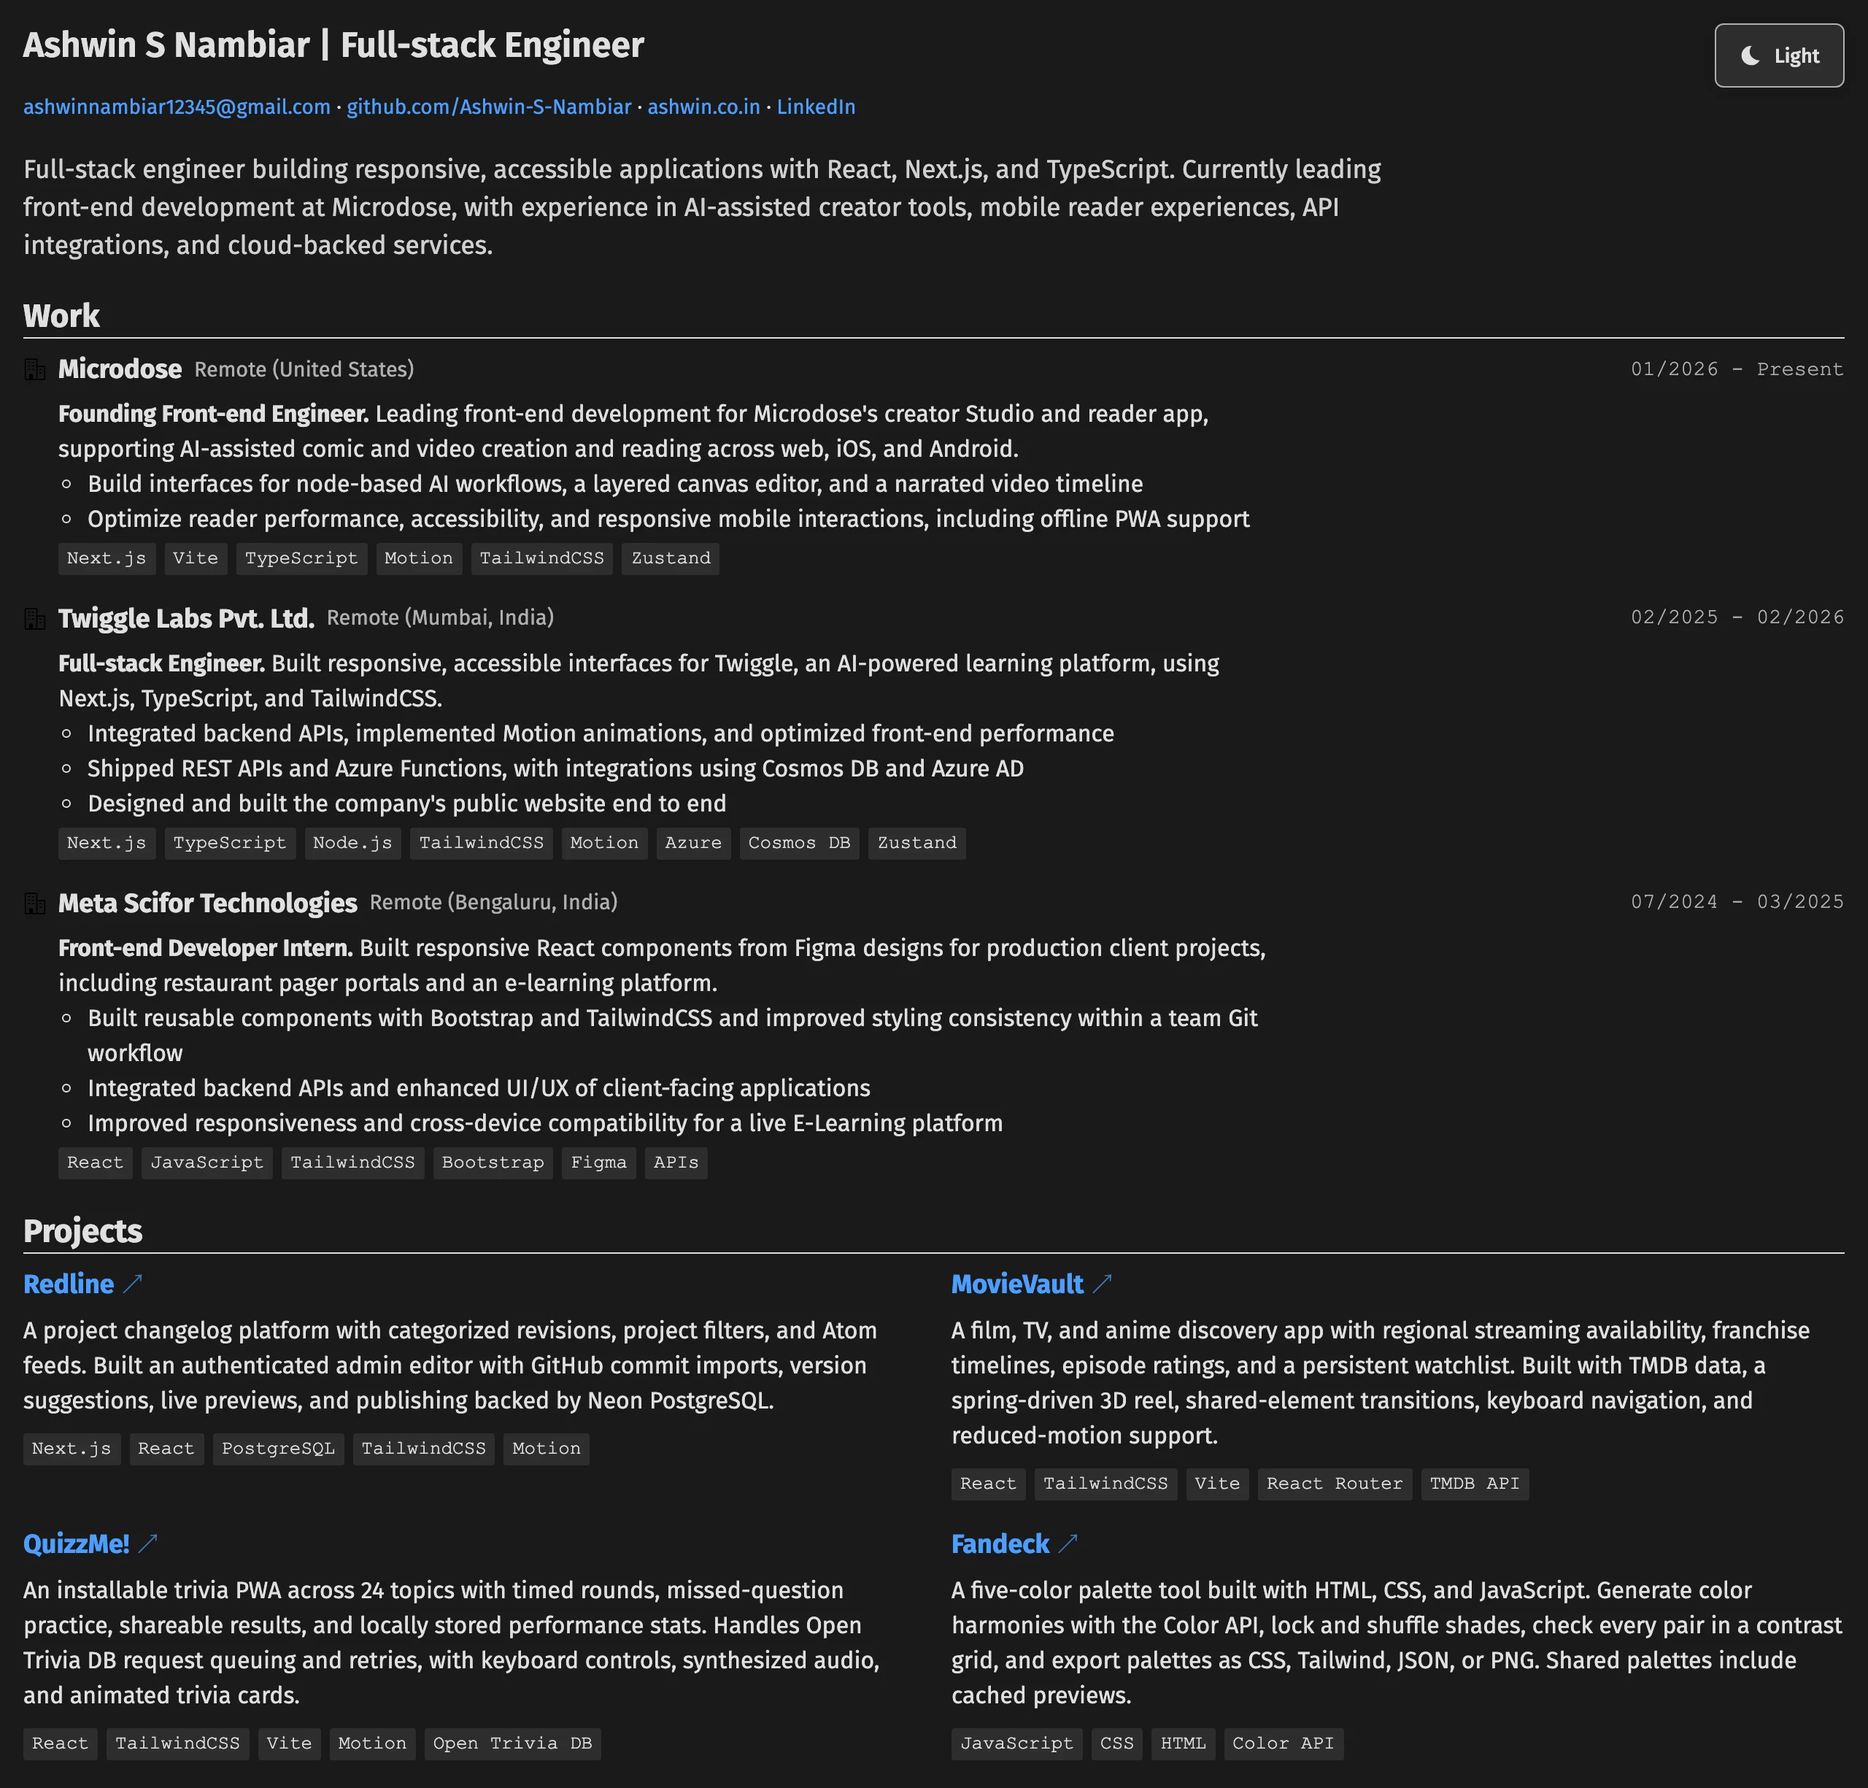
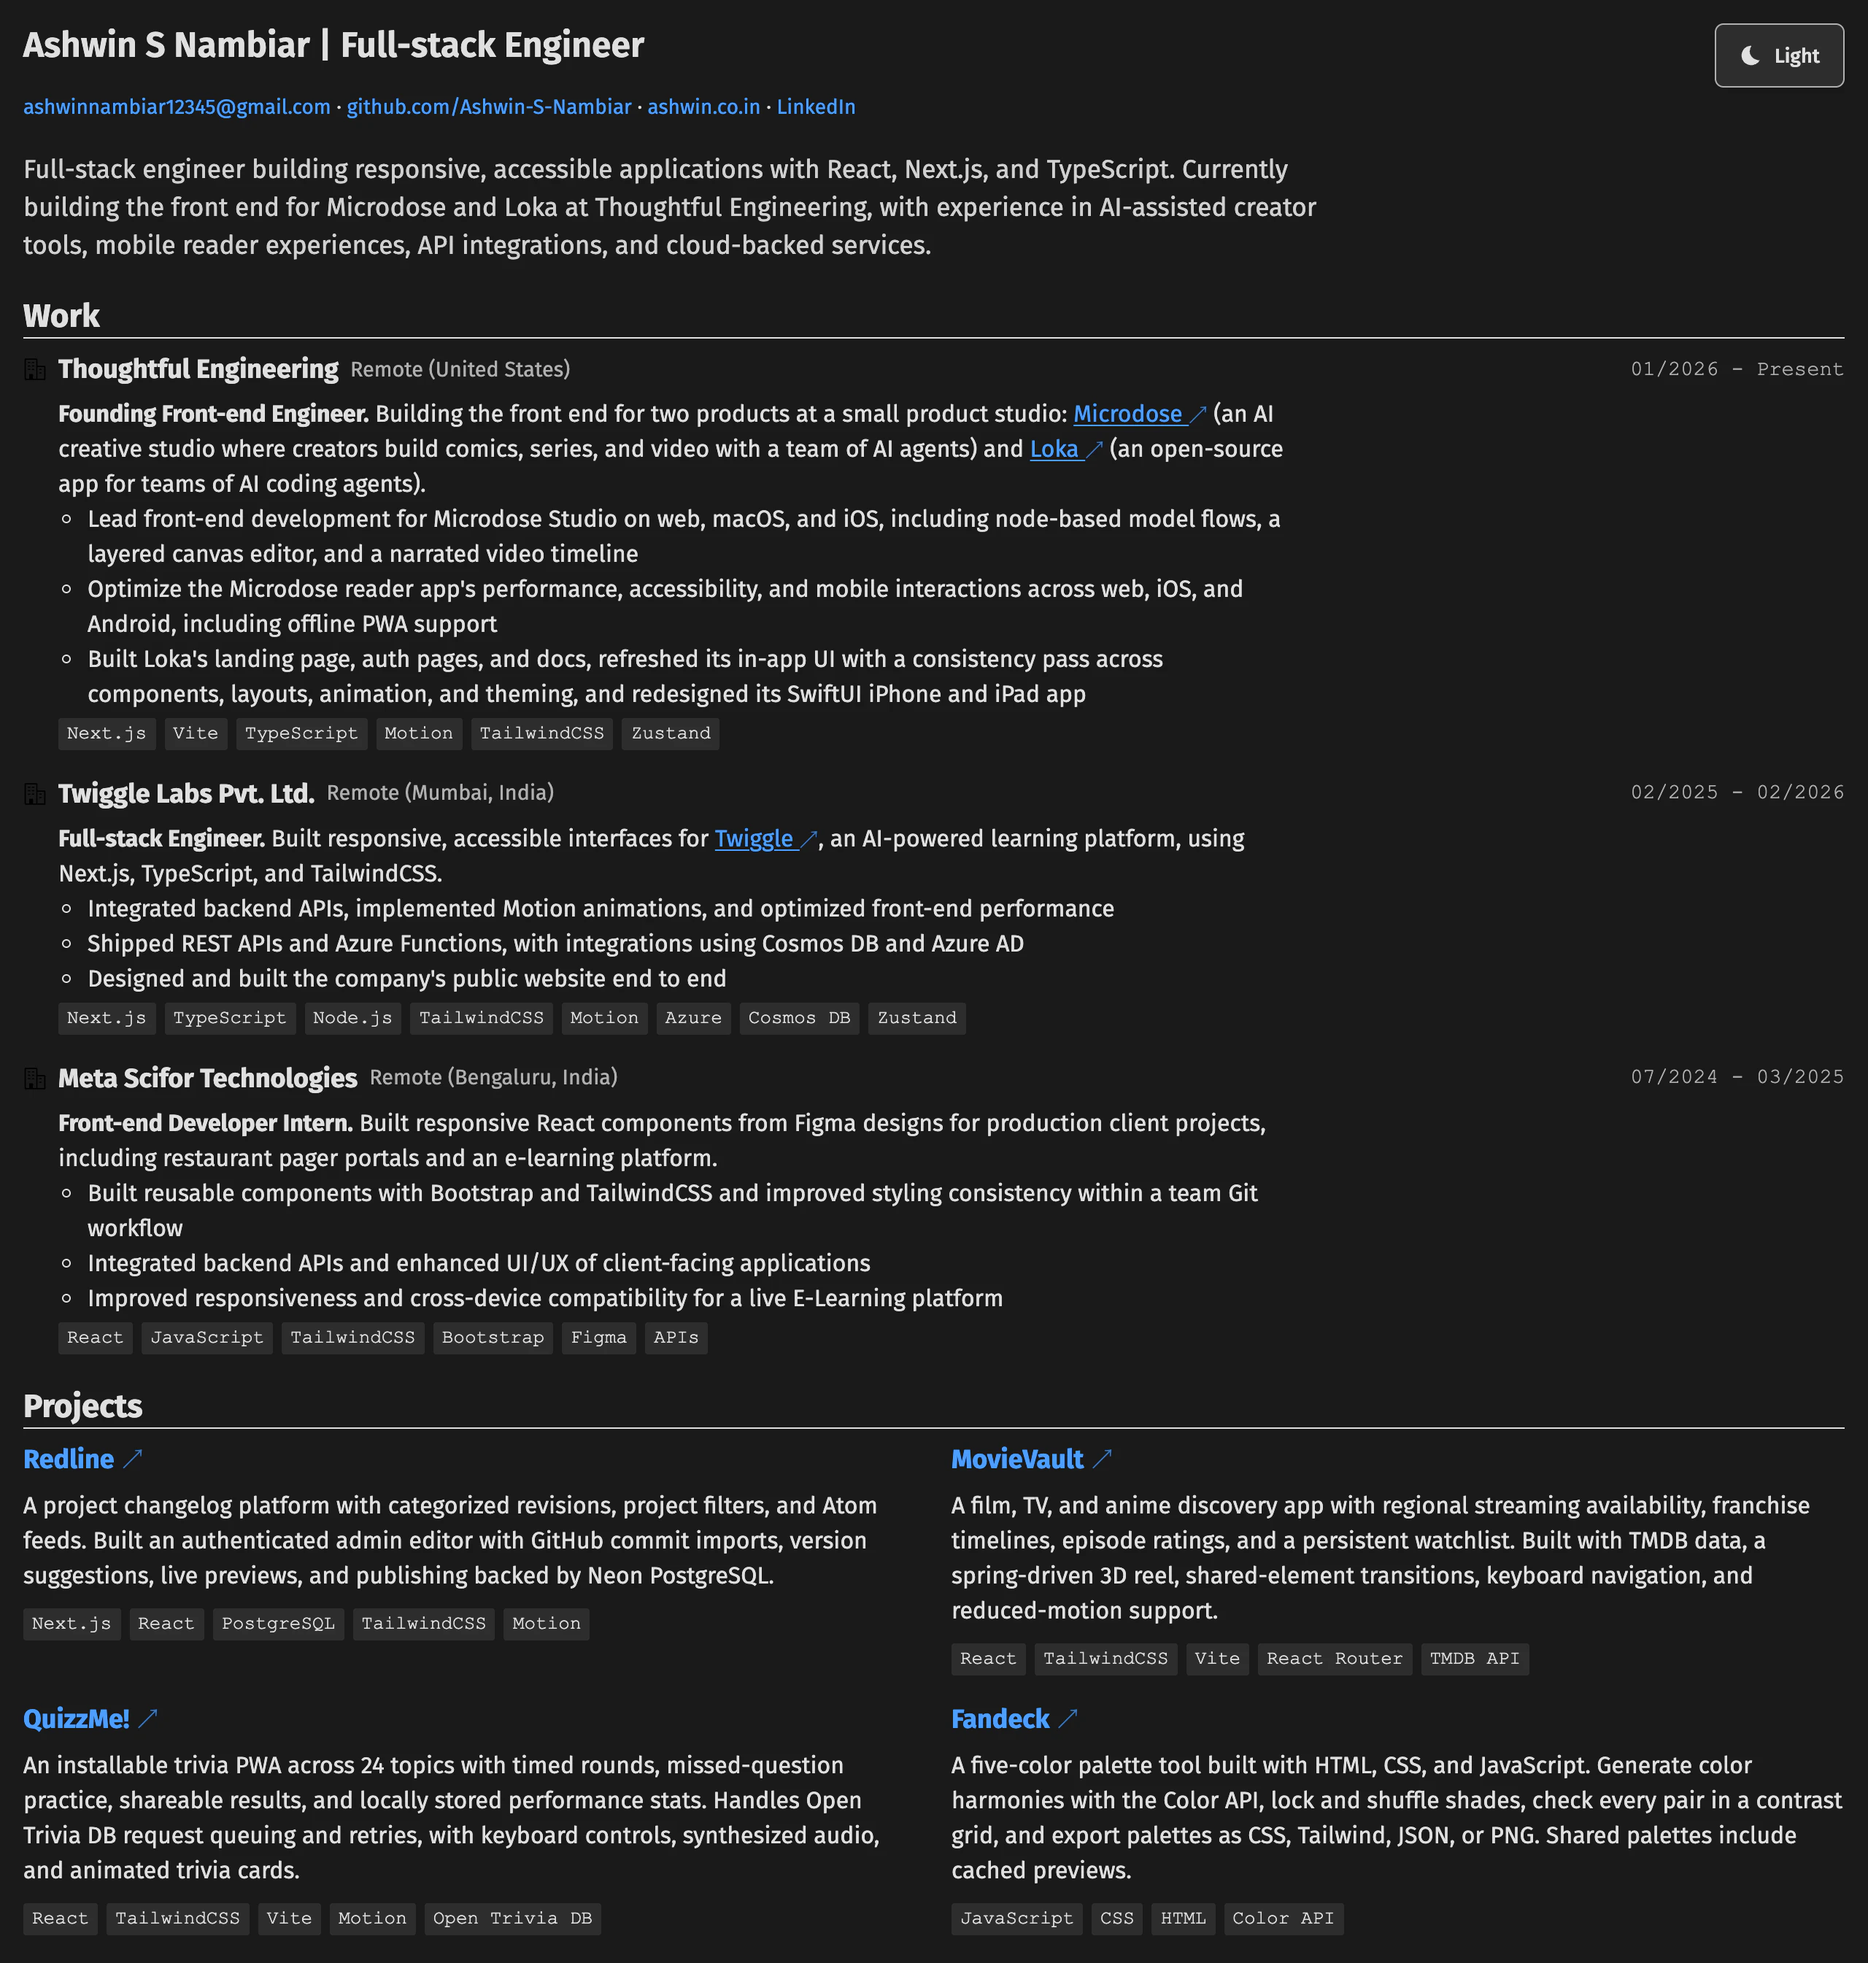
fix: add Twiggle and style work links

diff --git a/index.html b/index.html
@@ -103,11 +103,21 @@
             <p>
               <strong>Founding Front-end Engineer.</strong> Building the front
               end for two products at a small product studio:
-              <a href="https://studio.microdose.fun" target="_blank">Microdose</a>
+              <a
+                class="product-link"
+                href="https://studio.microdose.fun"
+                target="_blank"
+                >Microdose <span class="external-link" aria-hidden="true">↗</span></a
+              >
               (an AI creative studio where creators build comics, series, and video
               with a team of AI agents) and
-              <a href="https://loka.ygpt.dev" target="_blank">Loka</a> (an
-              open-source app for teams of AI coding agents).
+              <a
+                class="product-link"
+                href="https://loka.ygpt.dev"
+                target="_blank"
+                >Loka <span class="external-link" aria-hidden="true">↗</span></a
+              >
+              (an open-source app for teams of AI coding agents).
             </p>
             <ul>
               <li>
@@ -152,8 +162,14 @@
           <div>
             <p>
               <strong>Full-stack Engineer.</strong> Built responsive, accessible
-              interfaces for Twiggle, an AI-powered learning platform, using
-              Next.js, TypeScript, and TailwindCSS.
+              interfaces for
+              <a
+                class="product-link"
+                href="https://www.twigglelabs.in/"
+                target="_blank"
+                >Twiggle <span class="external-link" aria-hidden="true">↗</span></a
+              >, an AI-powered learning platform, using Next.js, TypeScript,
+              and TailwindCSS.
             </p>
             <ul>
               <li>

diff --git a/style.css b/style.css
@@ -230,6 +230,34 @@ section#education {
 	}
 }
 
+.product-link {
+	color: var(--link-color);
+	white-space: nowrap;
+	text-decoration: underline;
+	text-decoration-thickness: 1px;
+	text-underline-offset: 0.15em;
+	transition: color 0.3s ease;
+
+	&:is(:hover, :focus-visible) {
+		color: var(--link-hover);
+	}
+
+	.external-link {
+		display: inline-block;
+	}
+}
+
+.external-link {
+	font-size: 0.8em;
+	opacity: 0.7;
+	transition: opacity 0.2s ease;
+}
+
+a:hover > .external-link,
+.product-link:focus-visible > .external-link {
+	opacity: 1;
+}
+
 section#projects,
 section#skills {
 	& > ul {
@@ -272,16 +300,6 @@ section#skills {
 				
 				a:hover::after {
 					width: calc(100% - 1.2em);
-				}
-				
-				.external-link {
-					font-size: 0.8em;
-					opacity: 0.7;
-					transition: opacity 0.2s ease;
-				}
-				
-				a:hover .external-link {
-					opacity: 1;
 				}
 			}
 			
@@ -327,16 +345,6 @@ section#certifications {
 			
 			a:hover::after {
 				width: calc(100% - 1.2em);
-			}
-			
-			.external-link {
-				font-size: 0.8em;
-				opacity: 0.7;
-				transition: opacity 0.2s ease;
-			}
-			
-			a:hover .external-link {
-				opacity: 1;
 			}
 		}
 		

diff --git a/README.md b/README.md
@@ -1,6 +1,6 @@
 <p align="center">
   <a href="https://resume.ashwin.co.in">
-    <img src="./docs/screenshots/resume.webp" width="100%" alt="the resume on desktop: contact links, work at microdose, twiggle labs and meta scifor, and a two-column list of projects">
+    <img src="./docs/screenshots/resume.webp" width="100%" alt="the resume on desktop: contact links, work at thoughtful engineering, twiggle labs and meta scifor, and a two-column list of projects">
   </a>
 </p>
 
